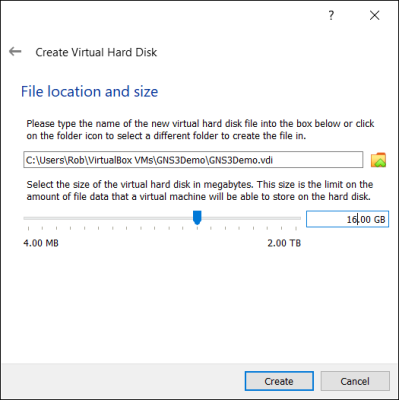
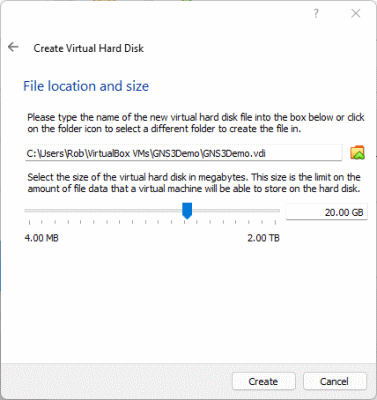
Changed HD memory requirement.

diff --git a/README.md b/README.md
@@ -54,7 +54,7 @@ Regardless of the hypervisor you use, make sure you:
 
 ![Memory size](img/a00.png "Settings -> Memory size")
  
-2. Allocate at least **16 GB** of hard disk space for your machine (e.g., in VirtualBox...):
+2. Allocate at least **20 GB** of hard disk space for your machine (e.g., in VirtualBox...):
 
 ![File location and size](img/a01.png "Settings -> File location and size")**
 
